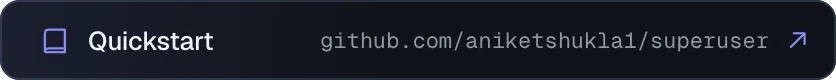
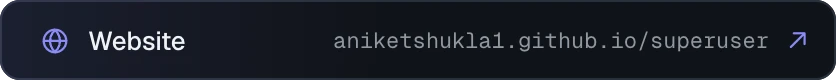
Superuser has a website

Changed region(s): [[0.3732, 0.4, 0.7775, 0.65], [0.0311, 0.35, 0.2799, 0.675]]

diff --git a/art/src/projects.js b/art/src/projects.js
@@ -4,7 +4,7 @@ export const PROJECTS = {
     name: 'Superuser', accent: '#8b8cf6', logo: 'superuser.png', shot: 'superuser.webp',
     stack: ['Rust', 'Tauri', 'React', 'TypeScript', 'macOS'],
     line: 'The AI you can tell everything. It runs on your machine, asks before it acts, and shows you everything that left.',
-    link: { label: 'Quickstart', shown: 'github.com/aniketshukla1/superuser', icon: 'book' },
+    link: { label: 'Website', shown: 'aniketshukla1.github.io/superuser', icon: 'globe' },
   },
   'glaux': {
     name: 'Glaux', accent: '#2dd4bf', logo: 'glaux.svg', shot: 'glaux.webp',

diff --git a/README.md b/README.md
@@ -15,7 +15,7 @@
 <p align="center">
 <a href="https://github.com/aniketshukla1/superuser"><picture><source media="(prefers-color-scheme: dark)" srcset="./art/cards/superuser-dark.webp" /><source media="(prefers-color-scheme: light)" srcset="./art/cards/superuser-light.webp" /><img src="./art/cards/superuser-light.webp" width="418" alt="Superuser. The AI you can tell everything. It runs on your machine, asks before it acts, and shows you everything that left. Built with Rust, Tauri, React and TypeScript, for macOS. Screenshot of its approvals inbox." /></picture></a>
 <a href="https://github.com/aniketshukla1/glaux"><picture><source media="(prefers-color-scheme: dark)" srcset="./art/cards/glaux-dark.webp" /><source media="(prefers-color-scheme: light)" srcset="./art/cards/glaux-light.webp" /><img src="./art/cards/glaux-light.webp" width="418" alt="Glaux. A multi-agent swarm that proves its work. Every step is signed onto a tamper-evident, hash-chained ledger. Built with Python, Rust, FastAPI, React and Tauri. Screenshot of its console." /></picture></a>
-<a href="https://github.com/aniketshukla1/superuser#-quickstart"><picture><source media="(prefers-color-scheme: dark)" srcset="./art/links/superuser-dark.webp" /><source media="(prefers-color-scheme: light)" srcset="./art/links/superuser-light.webp" /><img src="./art/links/superuser-light.webp" width="418" alt="Superuser quickstart" /></picture></a>
+<a href="https://aniketshukla1.github.io/superuser/"><picture><source media="(prefers-color-scheme: dark)" srcset="./art/links/superuser-dark.webp" /><source media="(prefers-color-scheme: light)" srcset="./art/links/superuser-light.webp" /><img src="./art/links/superuser-light.webp" width="418" alt="Superuser website" /></picture></a>
 <a href="https://aniketshukla1.github.io/glaux/"><picture><source media="(prefers-color-scheme: dark)" srcset="./art/links/glaux-dark.webp" /><source media="(prefers-color-scheme: light)" srcset="./art/links/glaux-light.webp" /><img src="./art/links/glaux-light.webp" width="418" alt="Glaux website" /></picture></a>
 </p>
 
